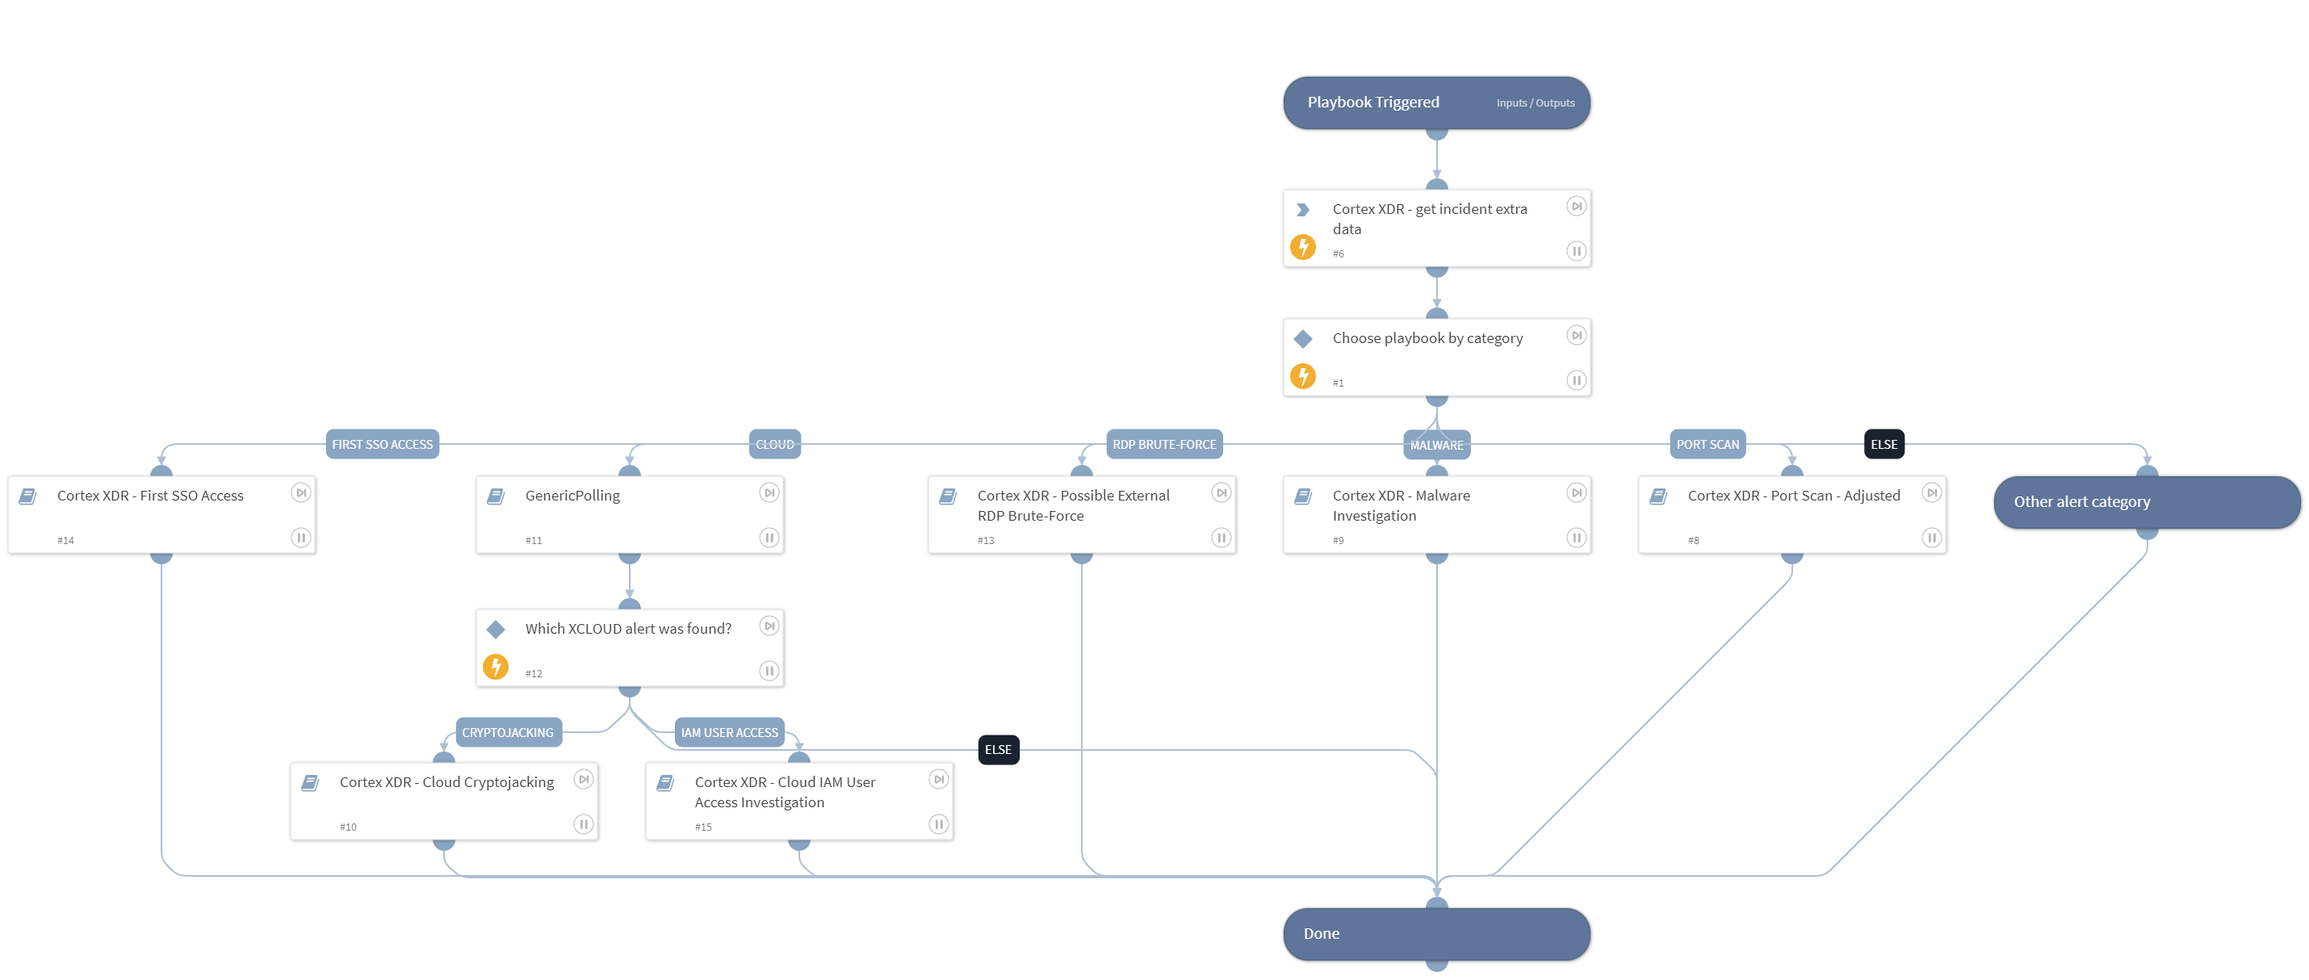
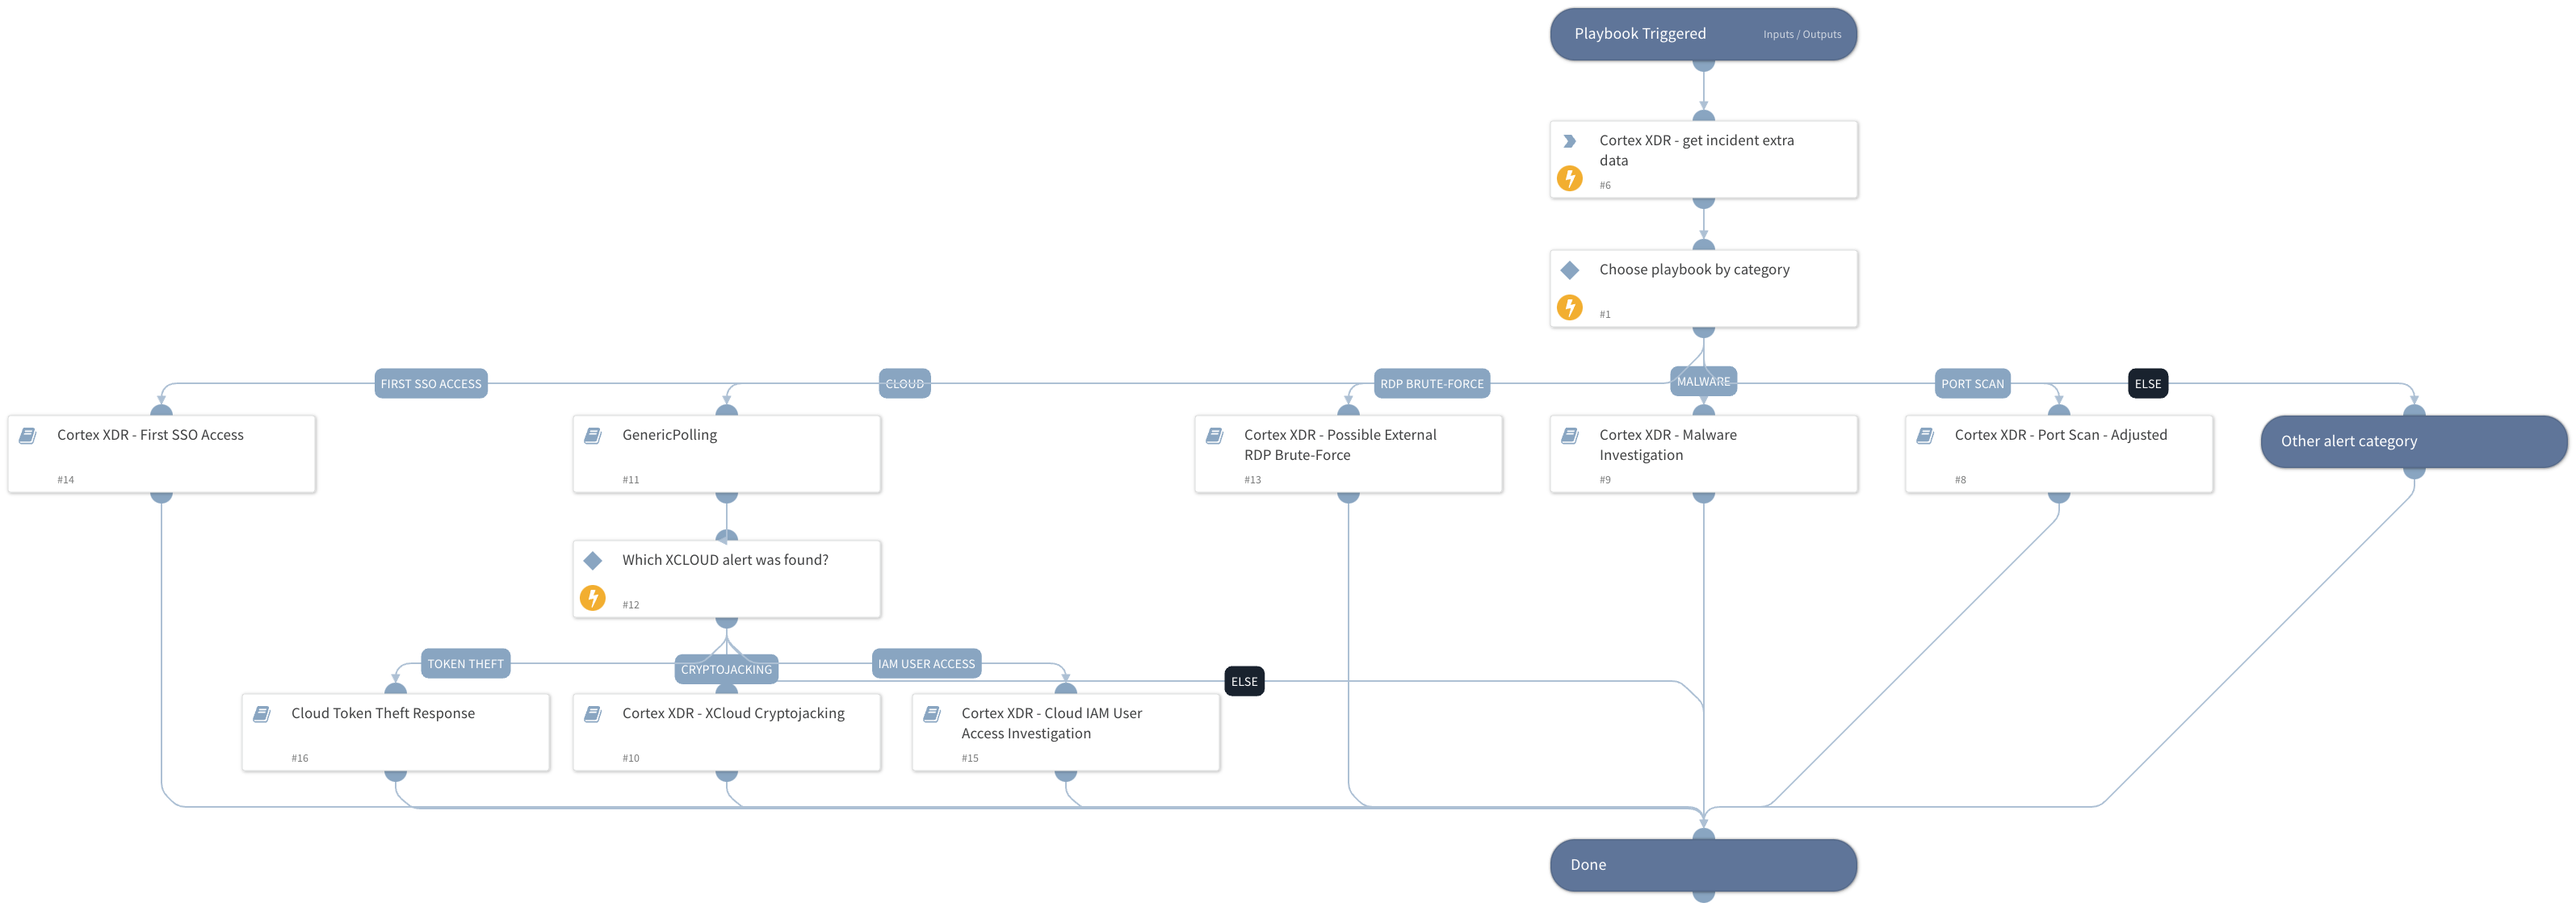
Alerts handling enhancement

diff --git a/Packs/CortexXDR/Playbooks/Cortex_XDR_Alerts_Handling_README.md b/Packs/CortexXDR/Playbooks/Cortex_XDR_Alerts_Handling_README.md
@@ -2,7 +2,8 @@ This playbook is used to loop over every alert in a Cortex XDR incident.
 Supported alert categories:
 - Malware
 - Port Scan
-- Cryptojacking
+- Cloud Cryptojacking
+- Cloud Token Theft
 - RDP Brute-Force
 - First SSO Access
 - Cloud IAM User Access Investigation
@@ -13,13 +14,14 @@ This playbook uses the following sub-playbooks, integrations, and scripts.
 
 ### Sub-playbooks
 
-* GenericPolling
-* Cortex XDR - Port Scan - Adjusted
-* Cortex XDR - First SSO Access
-* Cortex XDR - Cloud IAM User Access Investigation
-* Cortex XDR - Possible External RDP Brute-Force
-* Cortex XDR - XCloud Cryptojacking
 * Cortex XDR - Malware Investigation
+* Cortex XDR - First SSO Access
+* Cortex XDR - Port Scan - Adjusted
+* Cortex XDR - XCloud Token Theft Response
+* Cortex XDR - Possible External RDP Brute-Force
+* GenericPolling
+* Cortex XDR - XCloud Cryptojacking
+* Cortex XDR - Cloud IAM User Access Investigation
 
 ### Integrations
 
